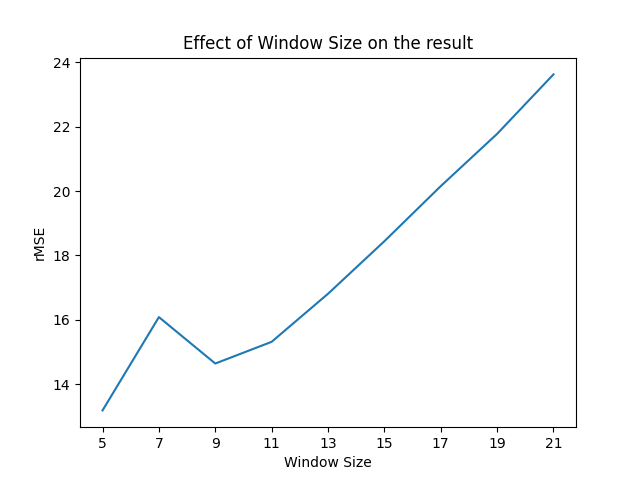
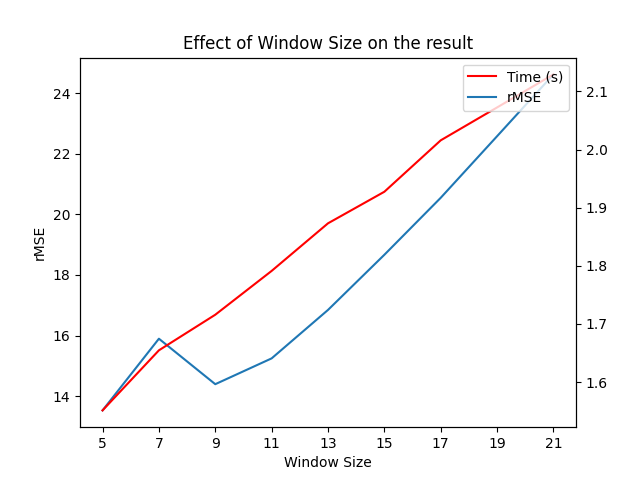
Perform another experiments

diff --git a/eval_set12.py b/eval_set12.py
@@ -2,8 +2,10 @@ from typing import List
 
 from PIL import Image
 import numpy as np
+from debugpy.common.timestamp import current
 from skimage.filters import window
 
+import time
 from filter import generalize_max_median_filter
 import cv2 as cv
 import matplotlib.pyplot as plt
@@ -99,22 +101,39 @@ def evaluate_window_size():
     noise_img = noisify(img, 's&p', noise_ratio=0.1)
     rMSE = []
     window_size = []
+    ts = []
+    n = []
+    filtered_images = []
     for i in range(2,11):
+        current_time = time.time()
         img_filtered = generalize_max_median_filter(noise_img ,i, 3)
+        finish_time = time.time()
+        t = finish_time - current_time
+        ts.append(t)
         rMSE.append(root_mean_squared_error(img, img_filtered))
         window_size.append(2*i+1)
-        if i == 2:
-            plt.imshow(img_filtered, cmap='gray')
-            plt.savefig('results/window_size_5.png')
-            plt.close()
-        if i == 10:
-            plt.imshow(img_filtered, cmap='gray')
-            plt.savefig('results/window_size_21.png')
-            plt.close()
-    plt.plot(window_size, rMSE)
+        if i==2 or i==10 or i%4==0:
+            filtered_images.append(img_filtered)
+            n.append(i)
+
+    plot, axs = plt.subplots(1, 5, figsize=(15, 10))
+    axs[0].imshow(img, cmap='gray')
+    axs[0].set_title('Original')
+    for i in range(1,5):
+        axs[i].imshow(filtered_images[i-1], cmap='gray')
+        axs[i].set_title('Filtered with window size: '+str(2*(n[i-1])+1))
+    plot.savefig('results/window_size_images.png')
+    plt.close(plot)
+
+
+    ln2 = plt.plot(window_size, rMSE, label = 'rMSE')
     plt.xticks(window_size)
     plt.xlabel('Window Size')
     plt.ylabel('rMSE')
+    ln1 = plt.twinx().plot(window_size, ts, 'r', label = 'Time (s)')
+    lns = ln1 + ln2
+    labs = [l.get_label() for l in lns]
+    plt.legend(lns, labs, loc=1)
     plt.title('Effect of Window Size on the result')
     plt.savefig('results/window_size.png')
     plt.close()
@@ -122,7 +141,7 @@ def evaluate_window_size():
 def evaluate_r():
     img = Image.open('images/Set12/05.png')
     img = np.array(img)
-    noise_img = noisify(img, 's&p', noise_ratio=0.1)
+    noise_img = noisify(img, 'gaussian', snr=10)
     rMSE = []
     r = []
     for i in range(1,6):
@@ -155,4 +174,4 @@ def evaluate_r():
 #     evaluate_snp('images/Set12/'+image)
 
 evaluate_window_size()
-evaluate_r()
+# evaluate_r()
